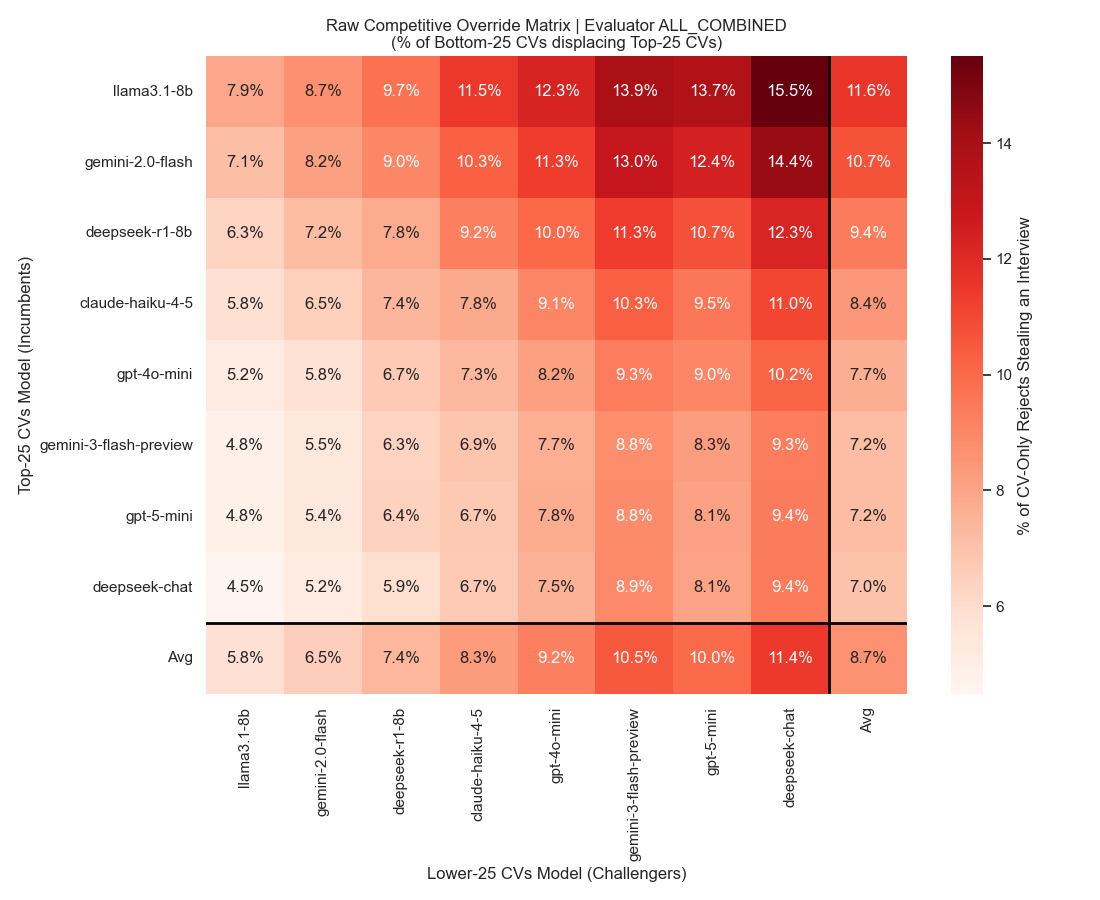
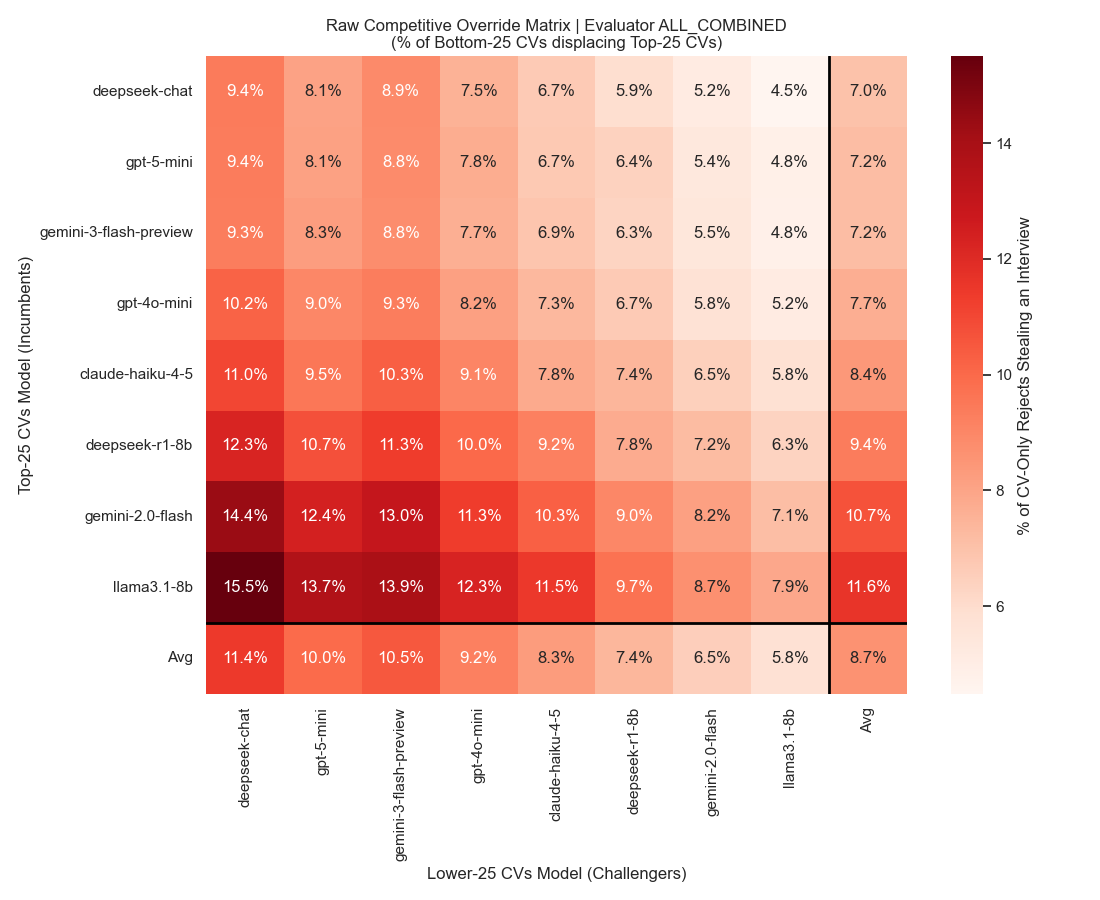
sorted the raw competitive advantage the same as the NCA plot

diff --git a/competitive_advantage_plots.py b/competitive_advantage_plots.py
@@ -169,7 +169,7 @@ def plot_raw_advantage_heatmap(raw_matrix, evaluator, writers, save_dir):
     avg_row.name = 'Avg'
     df_matrix = pd.concat([df_matrix, avg_row.to_frame().T])
 
-    sorted_models = df_matrix.loc[df_matrix.index != 'Avg', 'Avg'].sort_values(ascending=False).index.tolist()
+    sorted_models = df_matrix.loc[df_matrix.index != 'Avg', 'Avg'].sort_values(ascending=True).index.tolist()
     row_order = sorted_models + ['Avg']
     col_order = sorted_models + ['Avg']
     df_matrix = df_matrix.loc[row_order, col_order]
